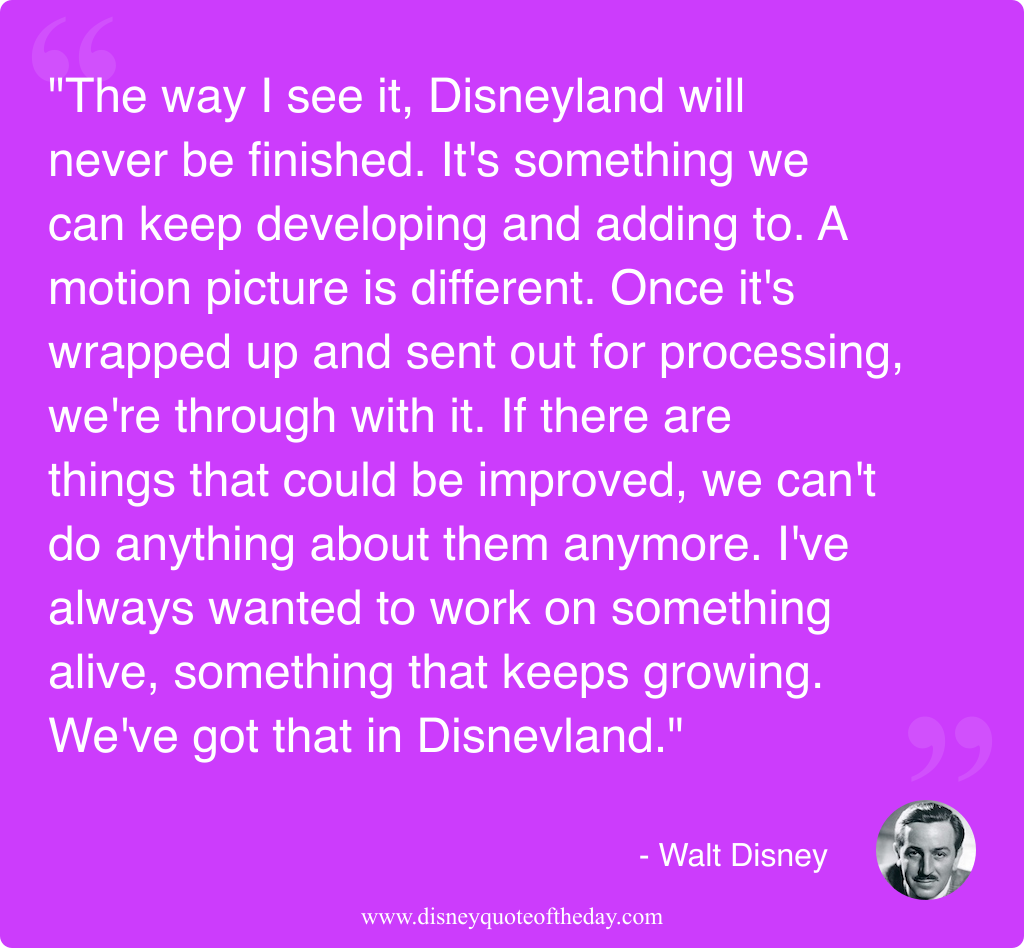
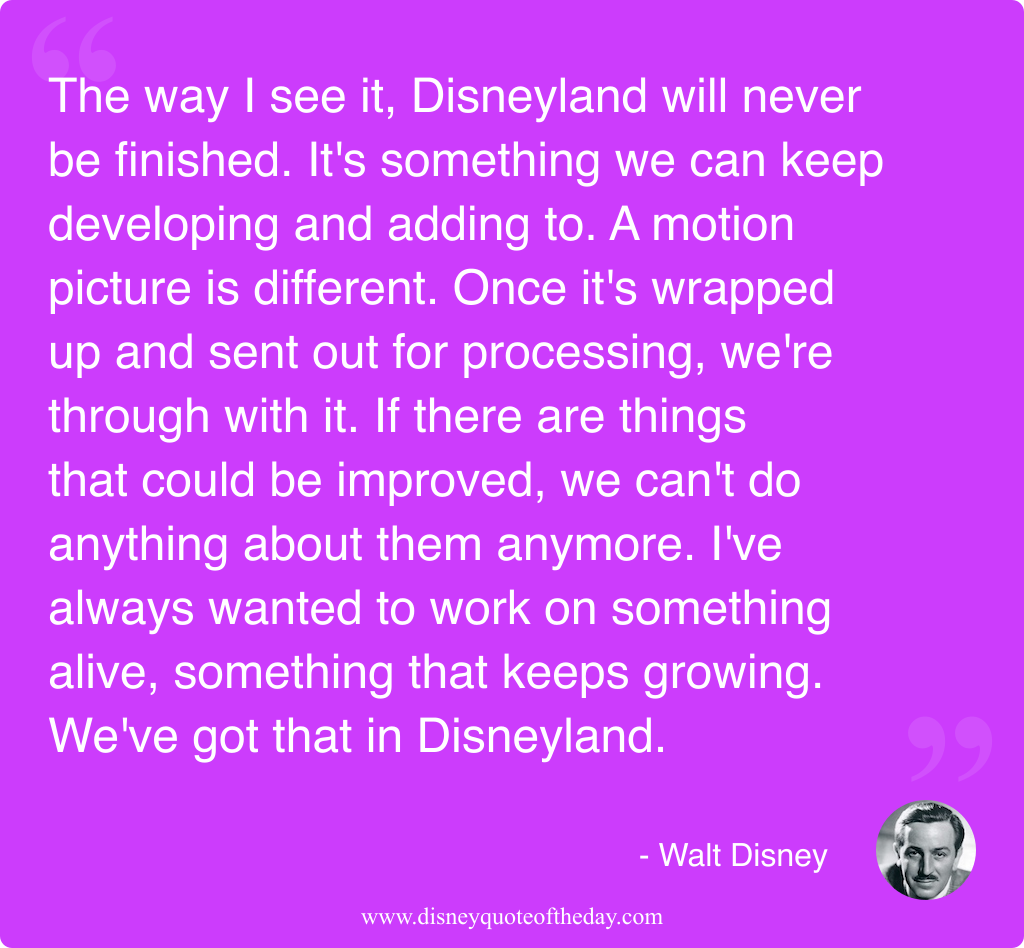
Fix disnevland typos

Changed region(s): [[0.0312, 0.153, 0.875, 0.6118], [0.0312, 0.0612, 0.8438, 0.1224], [0.0312, 0.153, 0.0625, 0.1835]]

diff --git a/_quotes/22.md b/_quotes/22.md
@@ -6,4 +6,4 @@ speaker:
 color: '#cc3cfc'
 releaseDate: '2023-08-22'
 ---
-The way I see it, Disneyland will never be finished. It's something we can keep developing and adding to. A motion picture is different. Once it's wrapped up and sent out for processing, we're through with it. If there are things that could be improved, we can't do anything about them anymore. I've always wanted to work on something alive, something that keeps growing. We've got that in Disnevland.
+The way I see it, Disneyland will never be finished. It's something we can keep developing and adding to. A motion picture is different. Once it's wrapped up and sent out for processing, we're through with it. If there are things that could be improved, we can't do anything about them anymore. I've always wanted to work on something alive, something that keeps growing. We've got that in Disneyland.

diff --git a/_quotes/84.md b/_quotes/84.md
@@ -1,9 +1,9 @@
 ---
-excerpt: "Disnevland is a thing that"
+excerpt: "Disneyland is a thing that"
 speaker:
   name: 'Walt Disney'
   picture: '/assets/images/Walt_Disney_1946_cropped_100x100.JPG'
 color: '#ed5ac3'
 releaseDate: '2023-10-23'
 ---
-Disnevland is a thing that I can keep molding and shaping. It's a three-dimensional thing to play with. But when I say, 'play with it,'I don't mean that. Everything I do I'keep a practical eve toward its appeal to the public.
+Disneyland is a thing that I can keep molding and shaping. It's a three-dimensional thing to play with. But when I say, 'play with it,'I don't mean that. Everything I do I'keep a practical eve toward its appeal to the public.

diff --git a/_quotes/41.md b/_quotes/41.md
@@ -6,4 +6,4 @@ speaker:
 color: '#38c46e'
 releaseDate: '2023-09-10'
 ---
-When we opened Disneyland, a lot of people got the impression that it was a get-rich-quick thing, but they didn't realize that behind Disnevland was this great organization that I built here at the Studio, and they all got into it and we were doing it because we loved to do it.
+When we opened Disneyland, a lot of people got the impression that it was a get-rich-quick thing, but they didn't realize that behind Disneyland was this great organization that I built here at the Studio, and they all got into it and we were doing it because we loved to do it.
